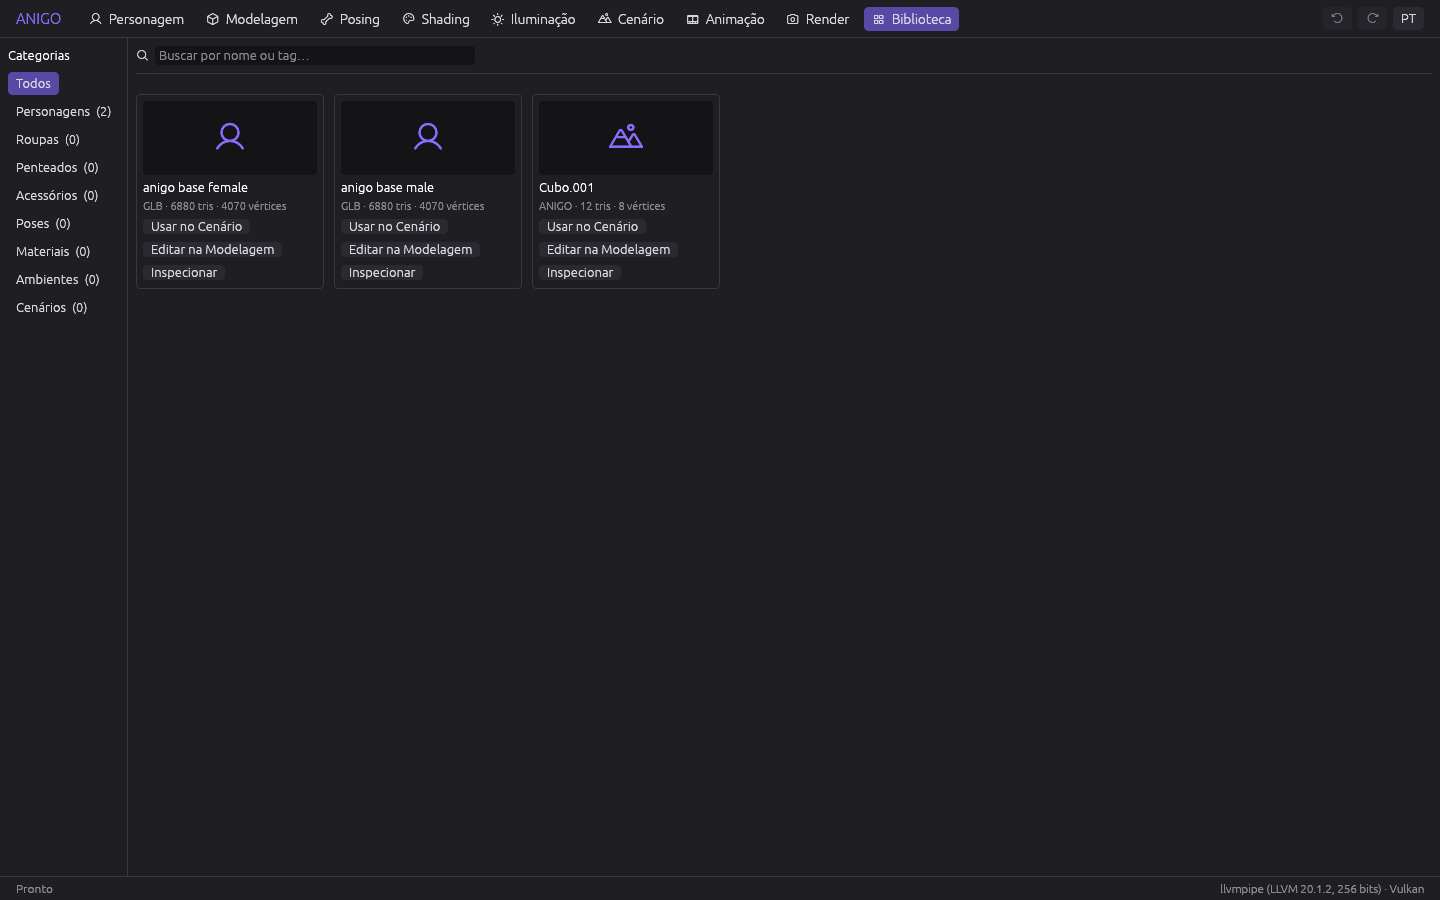
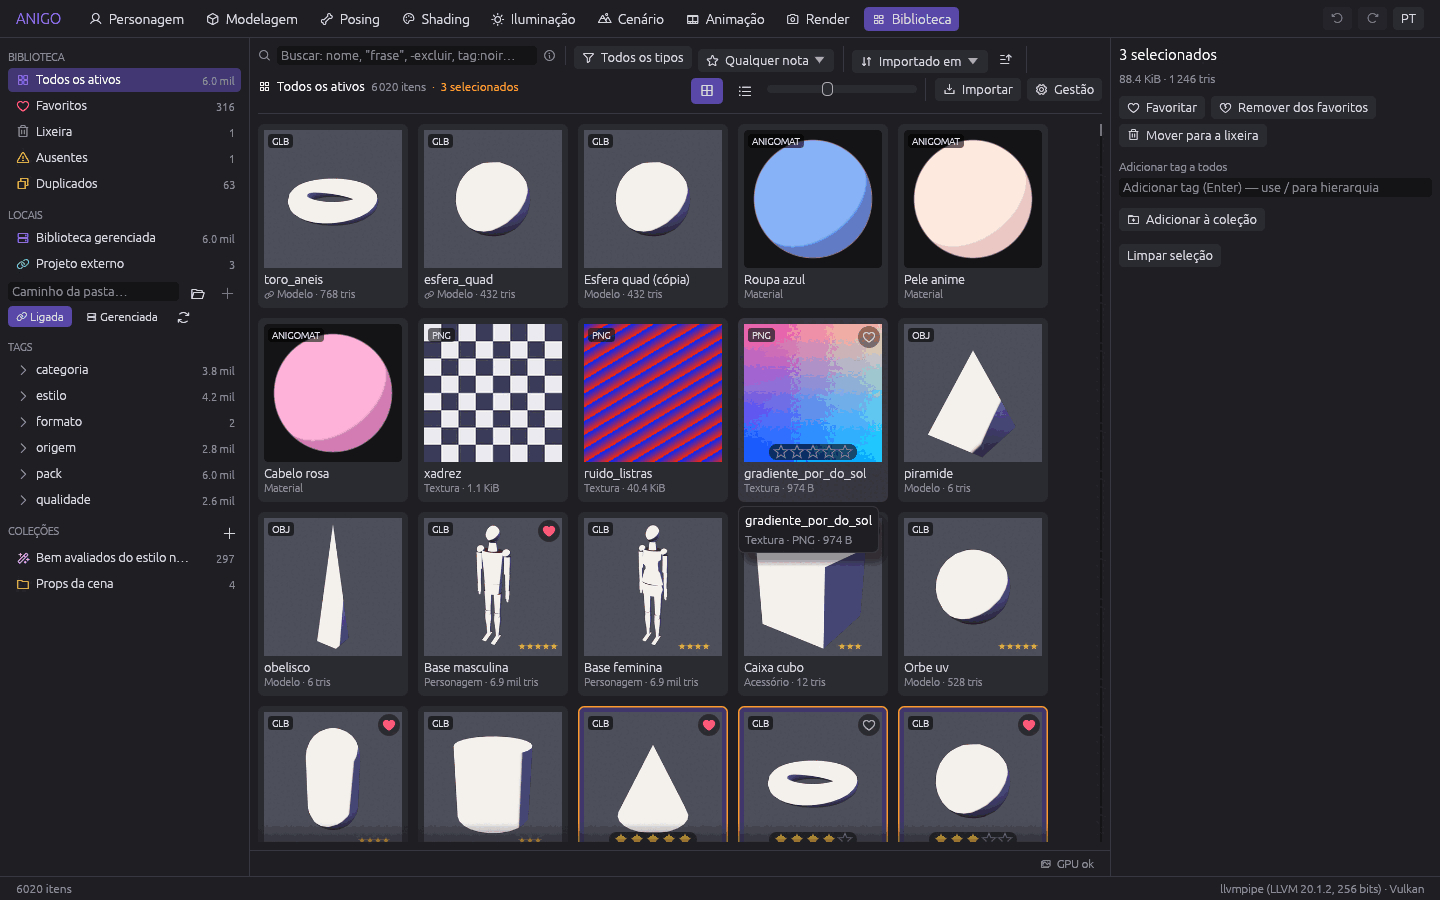
docs/native: índice, capturas de referência regeneradas (escultura, UV, normais, personagem, biblioteca)
Claude-Session: https://claude.ai/code/session_01Cw7PXcGr3AGYLwPofK4knJ

diff --git a/docs/native/README.md b/docs/native/README.md
@@ -7,9 +7,11 @@
 | [MODELAGEM_FERRAMENTAS.md](MODELAGEM_FERRAMENTAS.md) | Mapa de ferramentas do workspace de Modelagem (Blender como referência) |
 | [VALIDACAO_LOCAL.md](VALIDACAO_LOCAL.md) | **O que o chat local precisa validar** (entrada nativa, GPU real, gosto, Windows/MSVC, hot reload) |
 | [CPP_FFI.md](CPP_FFI.md) | Política C/C++ (`anigo-native`: meshopt, ufbx, xatlas) e lista "C++ depois" |
-| [CEL_ENGINE_FASE1.md](CEL_ENGINE_FASE1.md) | Melhorias do motor de cel shading (quando concluído) |
+| [CEL_ENGINE_FASE1.md](CEL_ENGINE_FASE1.md) | Melhorias do motor de cel shading (fase 1: DoF, rampa 2D, contorno, face SDF, paridade WGSL↔Rust) |
+| [BIBLIOTECA_BACKEND.md](BIBLIOTECA_BACKEND.md) / [BIBLIOTECA_BENCH.md](BIBLIOTECA_BENCH.md) | `anigo-assets`: SQLite/FTS5, locais, import GLB/glTF/OBJ/FBX/VRM, material toon canônico, miniaturas, benchmark de 50 mil ativos |
+| [BIBLIOTECA_UI.md](BIBLIOTECA_UI.md) | Workspace Biblioteca: grade virtualizada, miniaturas 3D cel, gestão, import, cenários de captura |
 | [pesquisa/](pesquisa/) | Relatórios de pesquisa (UI Rust + hot reload, C++ vs Rust p/ modelagem, estado da arte de cel shading, bibliotecas de assets) |
 | img/ | Screenshots de referência gerados sob Xvfb + lavapipe |
 
-Crates novas: `anigo-modeling` (motor), `anigo-native` (C/C++), `anigo-session` (CoreSession compartilhada), `anigo-studio` (app).
+Crates novas: `anigo-modeling` (motor), `anigo-assets` (biblioteca), `anigo-native` (C/C++), `anigo-session` (CoreSession compartilhada), `anigo-studio` (app).
 Comandos úteis: `cargo run -p anigo-studio`, `scripts/dev_native.sh`, `scripts/native_input_smoke.sh`, `bacon.toml`.
